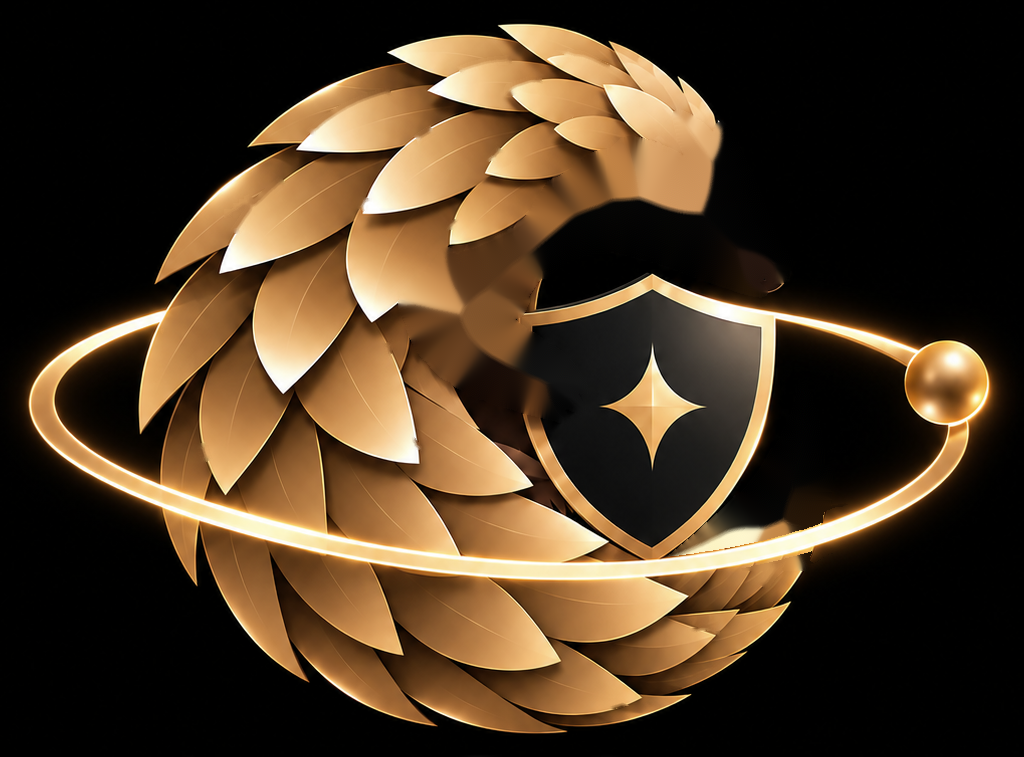
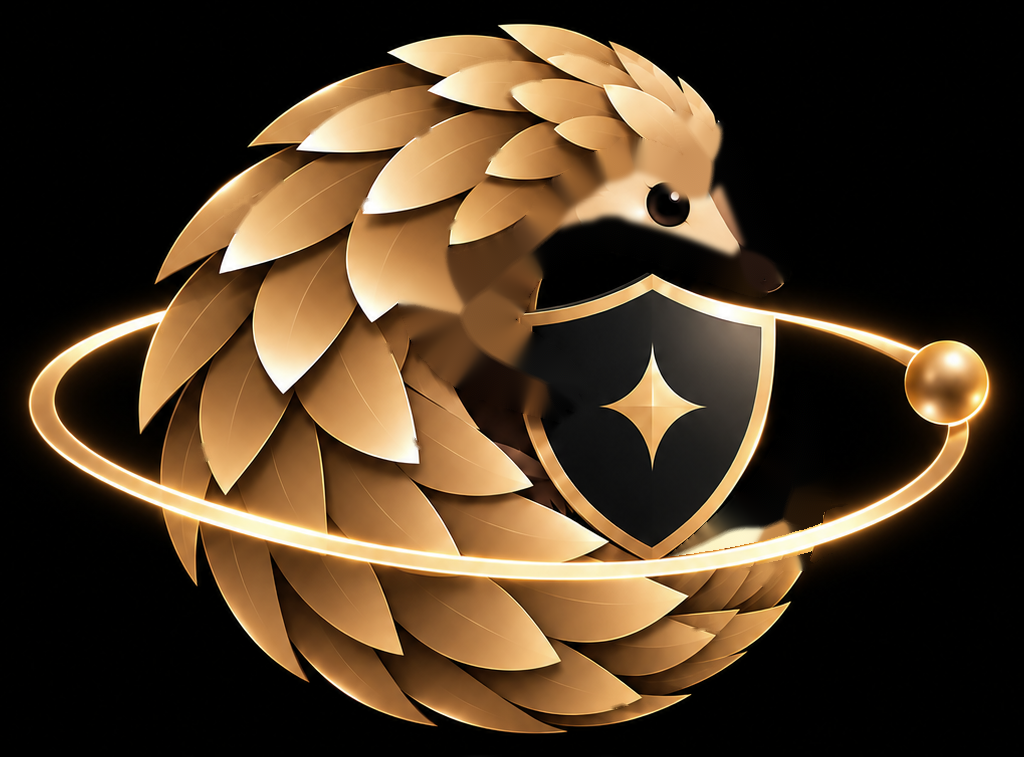
Hero: fix black face / frozen pet on phones
- Guard all touch/mouse inputs; self-repair any invalid motion value each frame
  (one bad value used to freeze the pangolin and hide the head, showing the dark patch)
- Real face kept on the base plate 30 px inside the head outline as a safety net
- Recover from WebGL context loss (show still logo, then rebuild)
- Tap sends a visible ripple through the scales; ?debug exposes state for testing

Changed region(s): [[0.5312, 0.2127, 0.75, 0.3342]]

diff --git a/tools/hero-rig/build.py b/tools/hero-rig/build.py
@@ -160,6 +160,12 @@ for d in scales:
 band &= (1 - dil(ring, 3)) & (1 - dil(shield, 2)) & (lum > 30).astype(np.uint8)
 band &= cv2.erode(fg, cv2.getStructuringElement(cv2.MORPH_ELLIPSE, (31, 31)))     # inside the body only: the outer curve stays crisp
 base = cv2.inpaint(base, band, 4, cv2.INPAINT_TELEA)
+# safety net: the real face stays on the base plate, 30 px inside the head's outline. The moving head always
+# covers it (its largest swing is ~20 px), but if a phone ever fails to draw the head layer you
+# see the normal face, never the dark patch.
+face_core = cv2.erode(head.astype(np.uint8), cv2.getStructuringElement(cv2.MORPH_ELLIPSE, (61, 61)))
+fc = cv2.GaussianBlur(face_core.astype(np.float32), (0, 0), 3)[..., None]
+base = (base.astype(np.float32) * (1 - fc) + im.astype(np.float32) * fc).astype(np.uint8)
 base[static_top > 0] = im[static_top > 0]
 
 # shield layer: original shield, with the claws removed (rebuilt from the mirrored rim, matched in colour)
